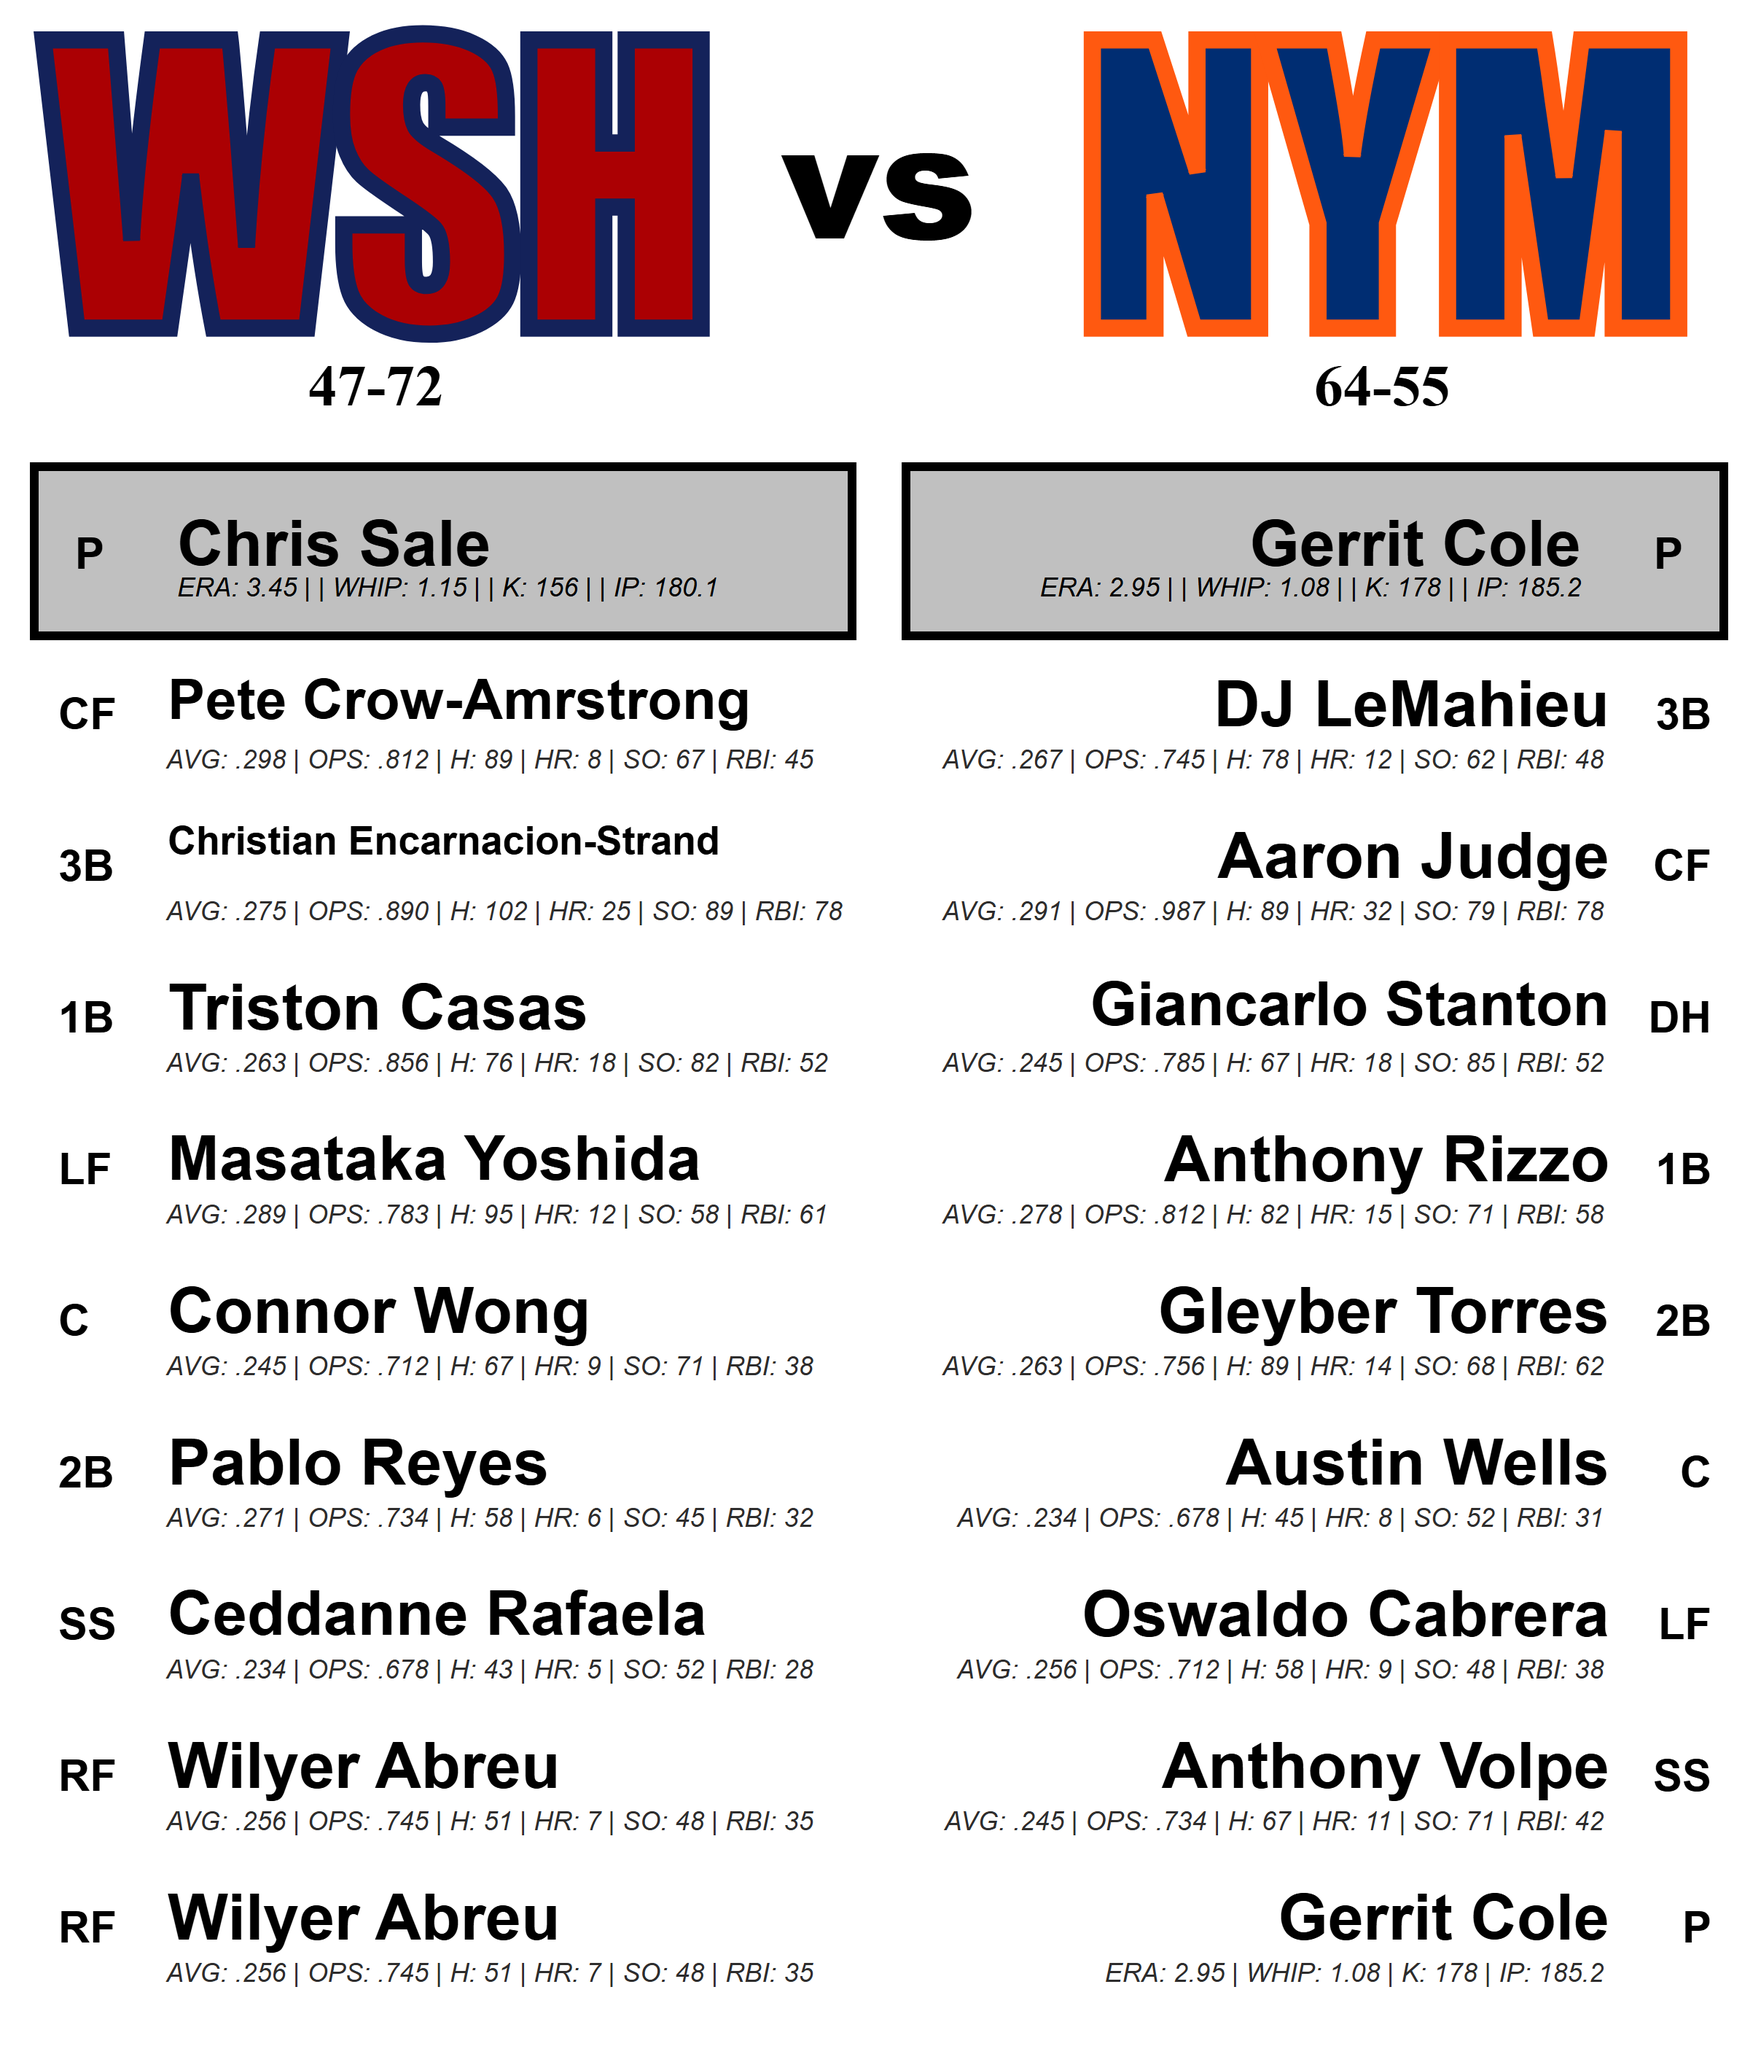
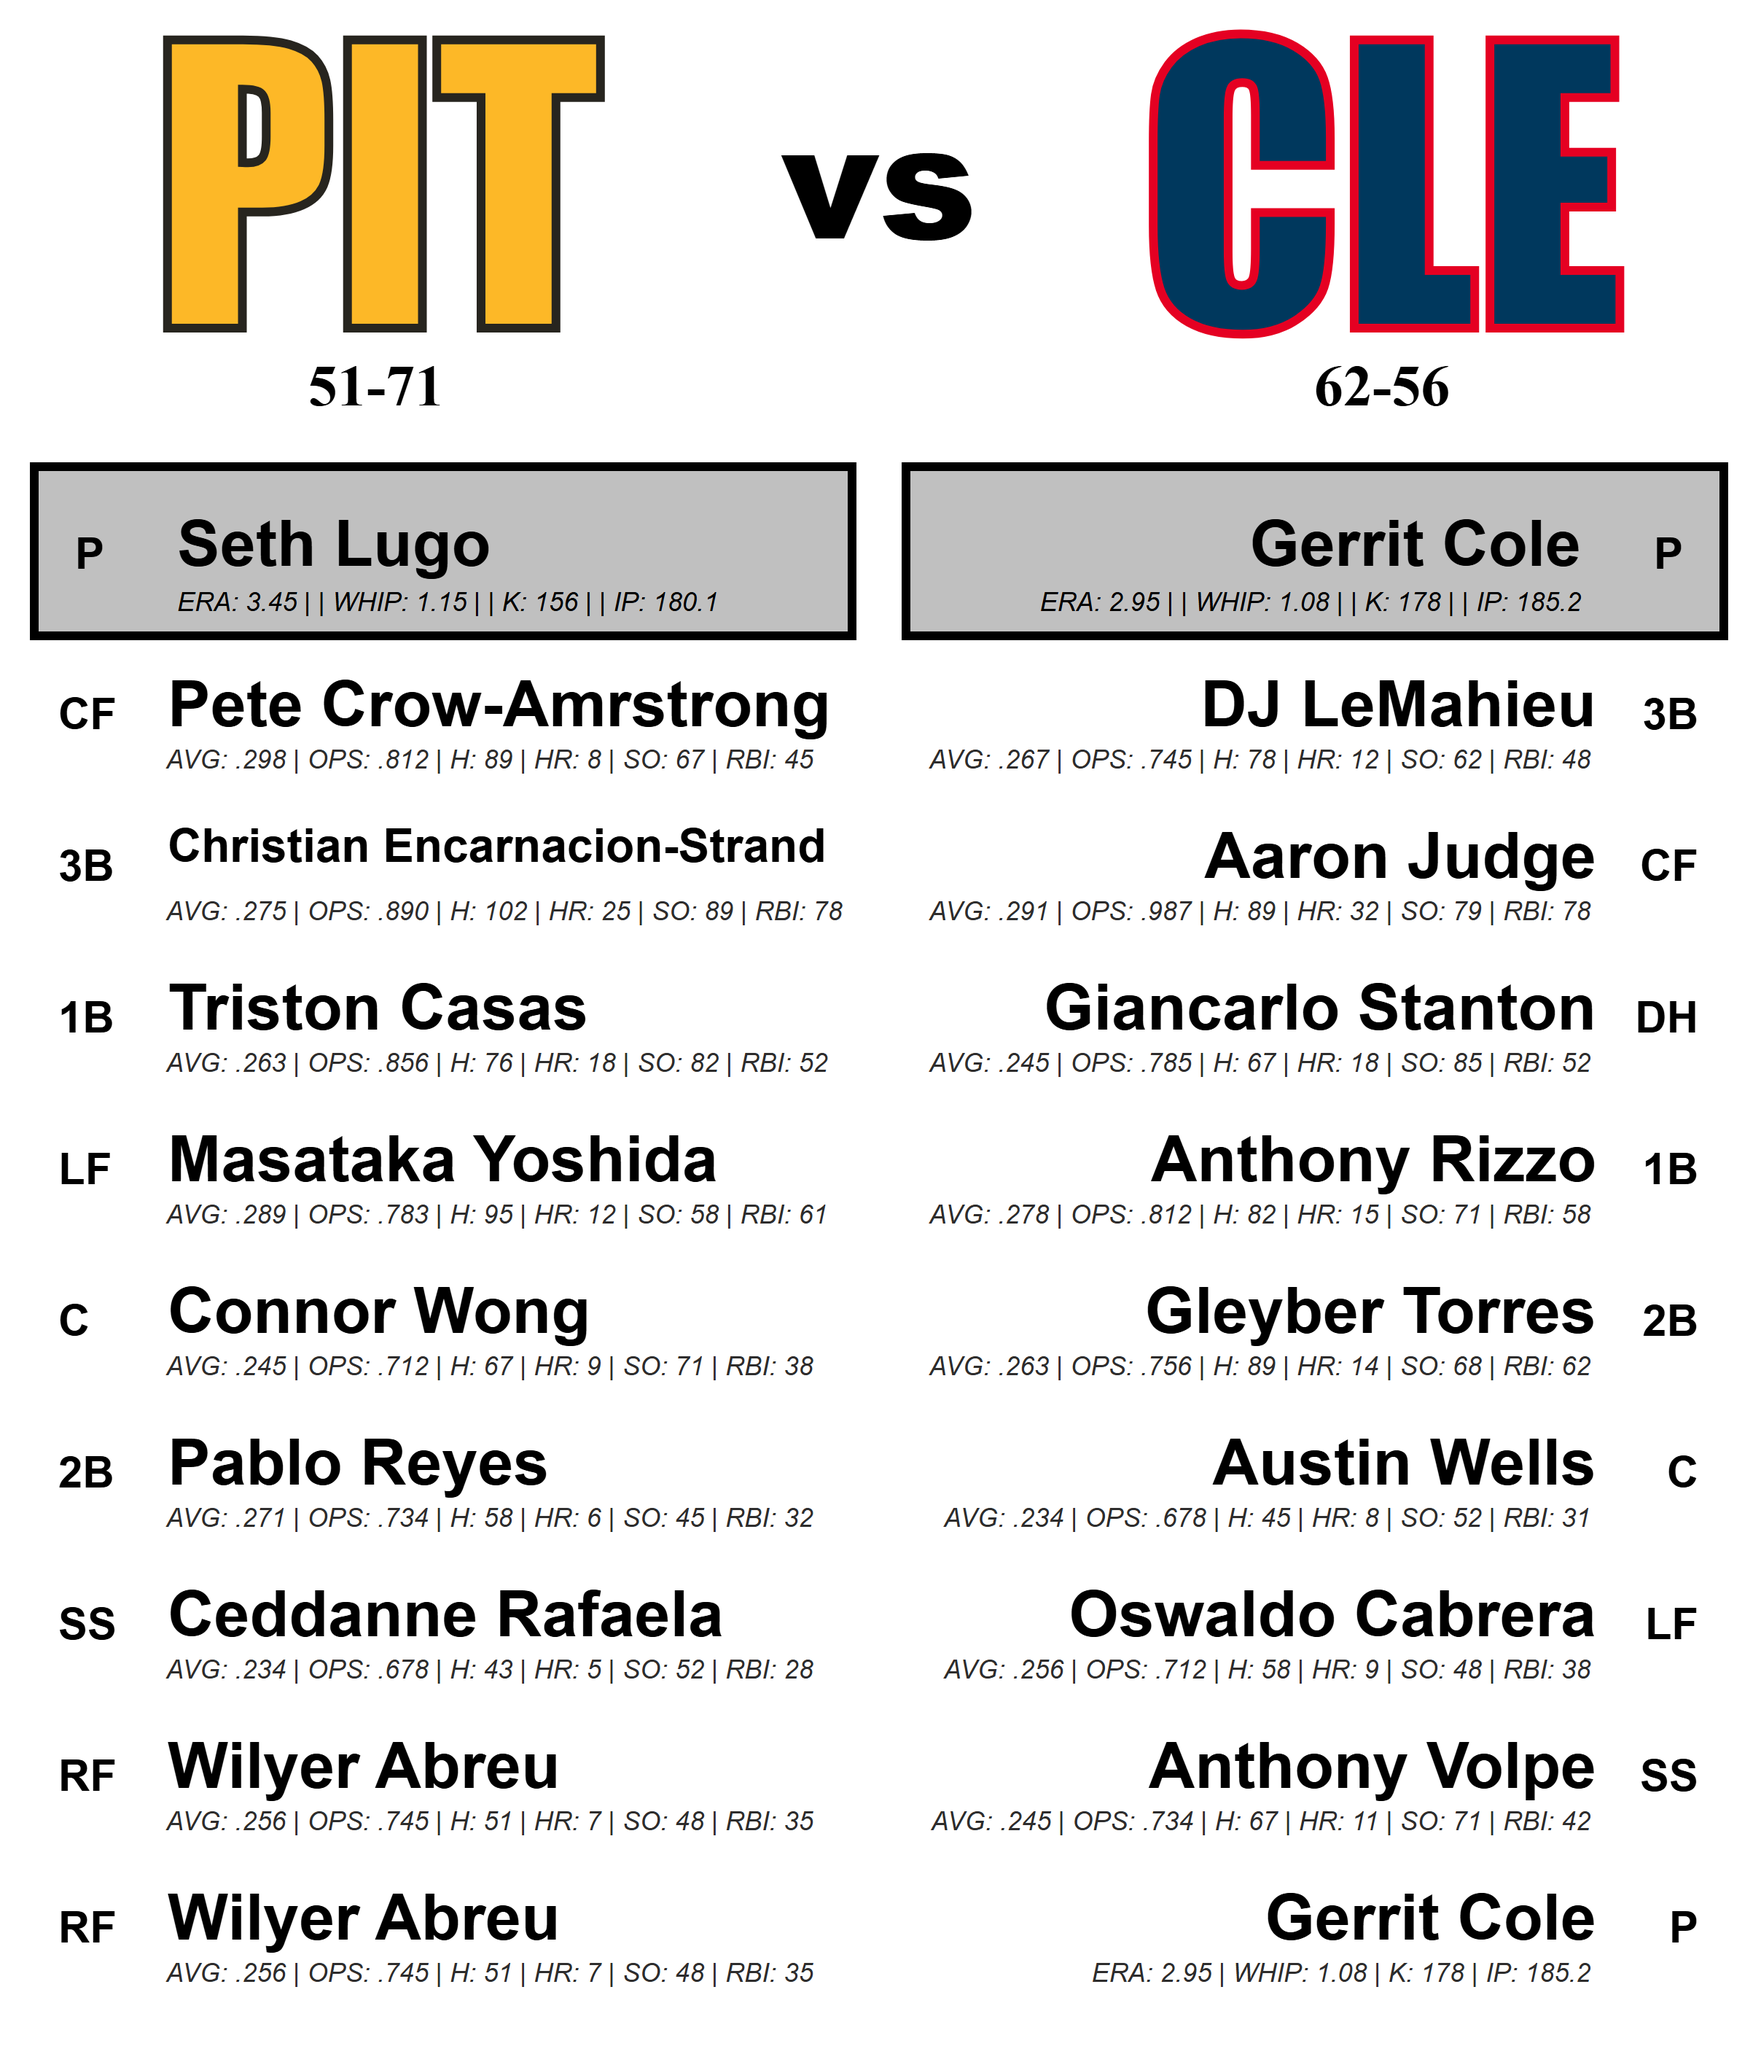
Update

diff --git a/MLB_Matchup/src/image_generator_v2.html b/MLB_Matchup/src/image_generator_v2.html
@@ -71,25 +71,28 @@
 
             .team-abbreviation {
                 font-family: 'Anton', 'Impact', 'Arial Black', sans-serif;
-                font-weight: 900;
+                font-weight: normal;
                 font-size: 250px;
                 line-height: 1;
-                letter-spacing: -5px;
+                letter-spacing: -2px;
                 margin-top: 40px;
                 user-select: none;
+                text-rendering: optimizeLegibility;
+                -webkit-font-smoothing: antialiased;
+                -moz-osx-font-smoothing: grayscale;
             }
 
              /* Team colors and outlines */
             .away-team-colors {
                 color: var(--away-primary-color);
-                -webkit-text-stroke: 4px var(--away-secondary-color);
-                /* text-stroke: 3px var(--away-secondary-color); */
+                -webkit-text-stroke: 6px var(--away-secondary-color);
+                text-stroke: 6px var(--away-secondary-color);
             }
 
             .home-team-colors {
                 color: var(--home-primary-color);
-                -webkit-text-stroke: 4px var(--home-secondary-color);
-                /* text-stroke: 3px var(--home-secondary-color); */
+                -webkit-text-stroke: 6px var(--home-secondary-color);
+                text-stroke: 6px var(--home-secondary-color);
             }
 
             .team-record {

diff --git a/Xbot/x_uploader.py b/Xbot/x_uploader.py
@@ -22,6 +22,7 @@ def upload_image_to_twitter(image_path, game_data):
         
         tweet_text = f"{game_data['away_team']} @ {game_data['home_team']}\n"
         tweet_text += f"🕐 {game_data['game_time']} 📅 {game_data['game_date']}\n"
+        tweet_text += f"*Statistics are over last 5 games*\n"
         tweet_text += f"{away_hashtag} {home_hashtag}\n"
         tweet_text += f"#{away_abr}vs{home_abr} // #{home_abr}vs{away_abr}"
         

diff --git a/MLB_Matchup/src/jinja2_image_generator.py b/MLB_Matchup/src/jinja2_image_generator.py
@@ -336,8 +336,8 @@ def create_lineup_image_example():
     
     # Example game data (you would normally get this from MLB API)
     example_game_data = {
-        'away_team': 'Kansas City Royals',
-        'home_team': 'New York Mets',
+        'away_team': 'Pittsburgh Pirates',
+        'home_team': 'Cleveland Guardians',
         'game_date': '08/04/2025',
         'game_time': '7:05 PM ET',
         'game_location': 'Yankee Stadium',
